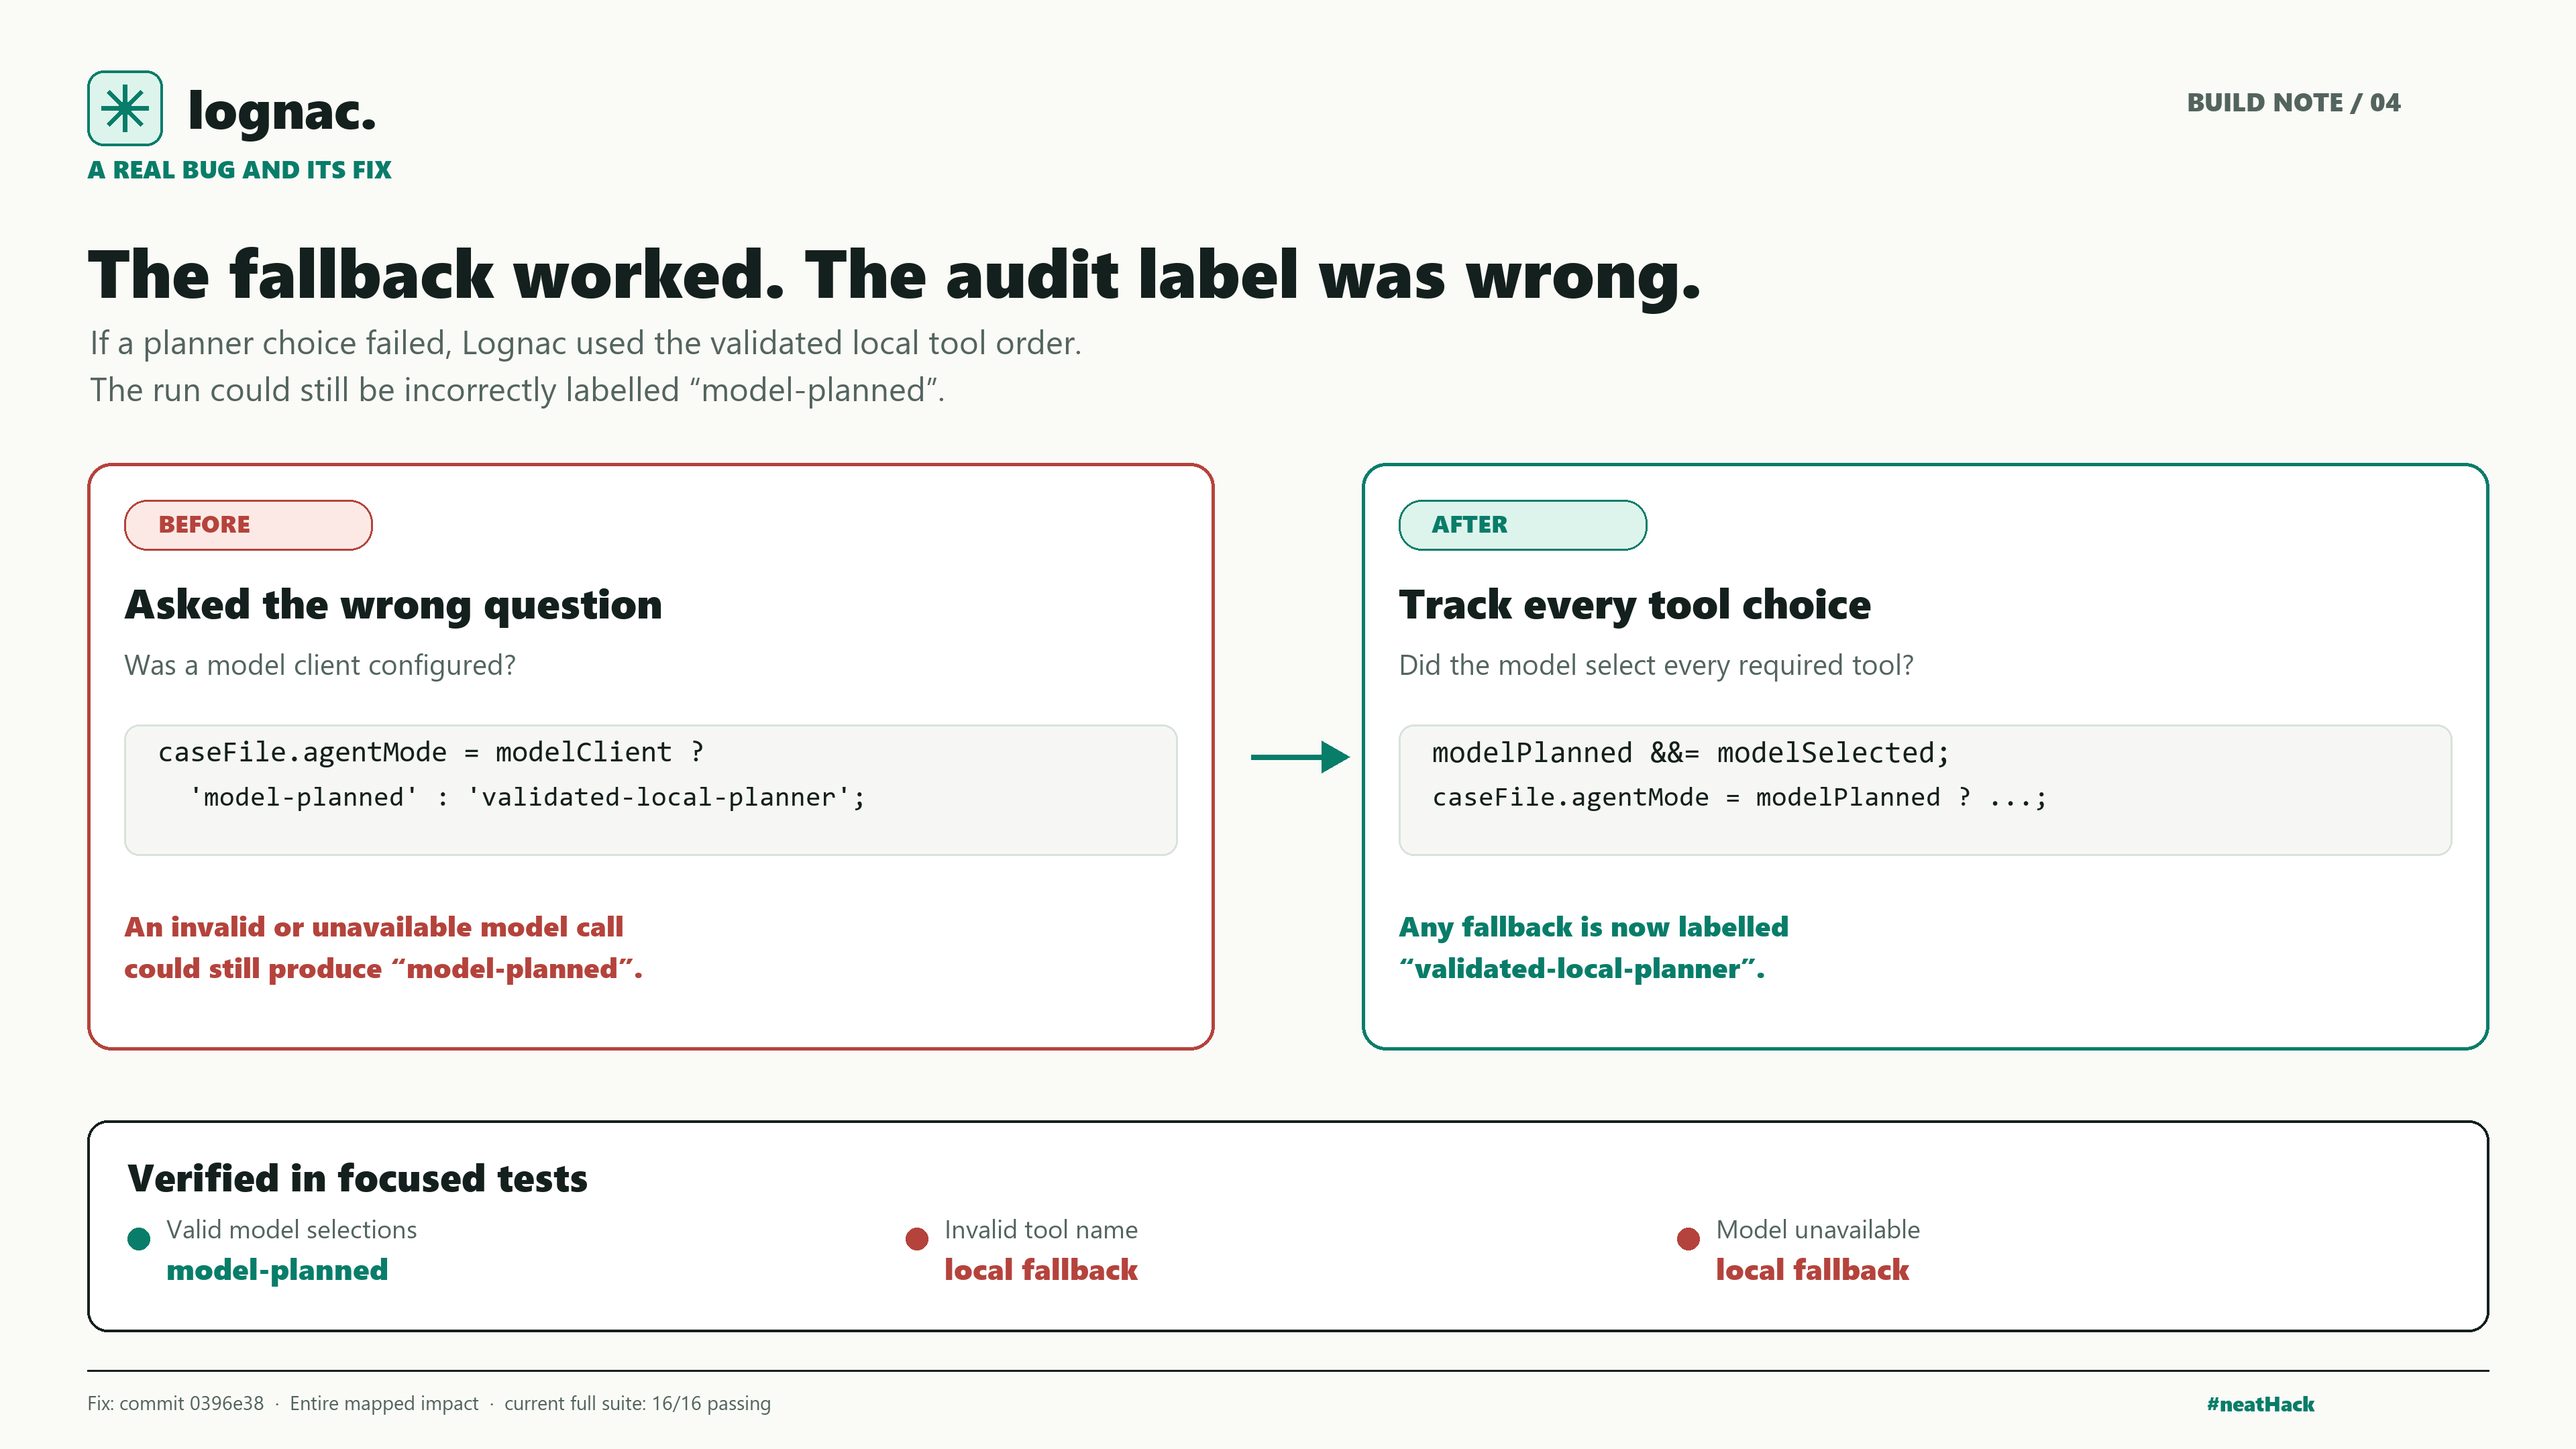
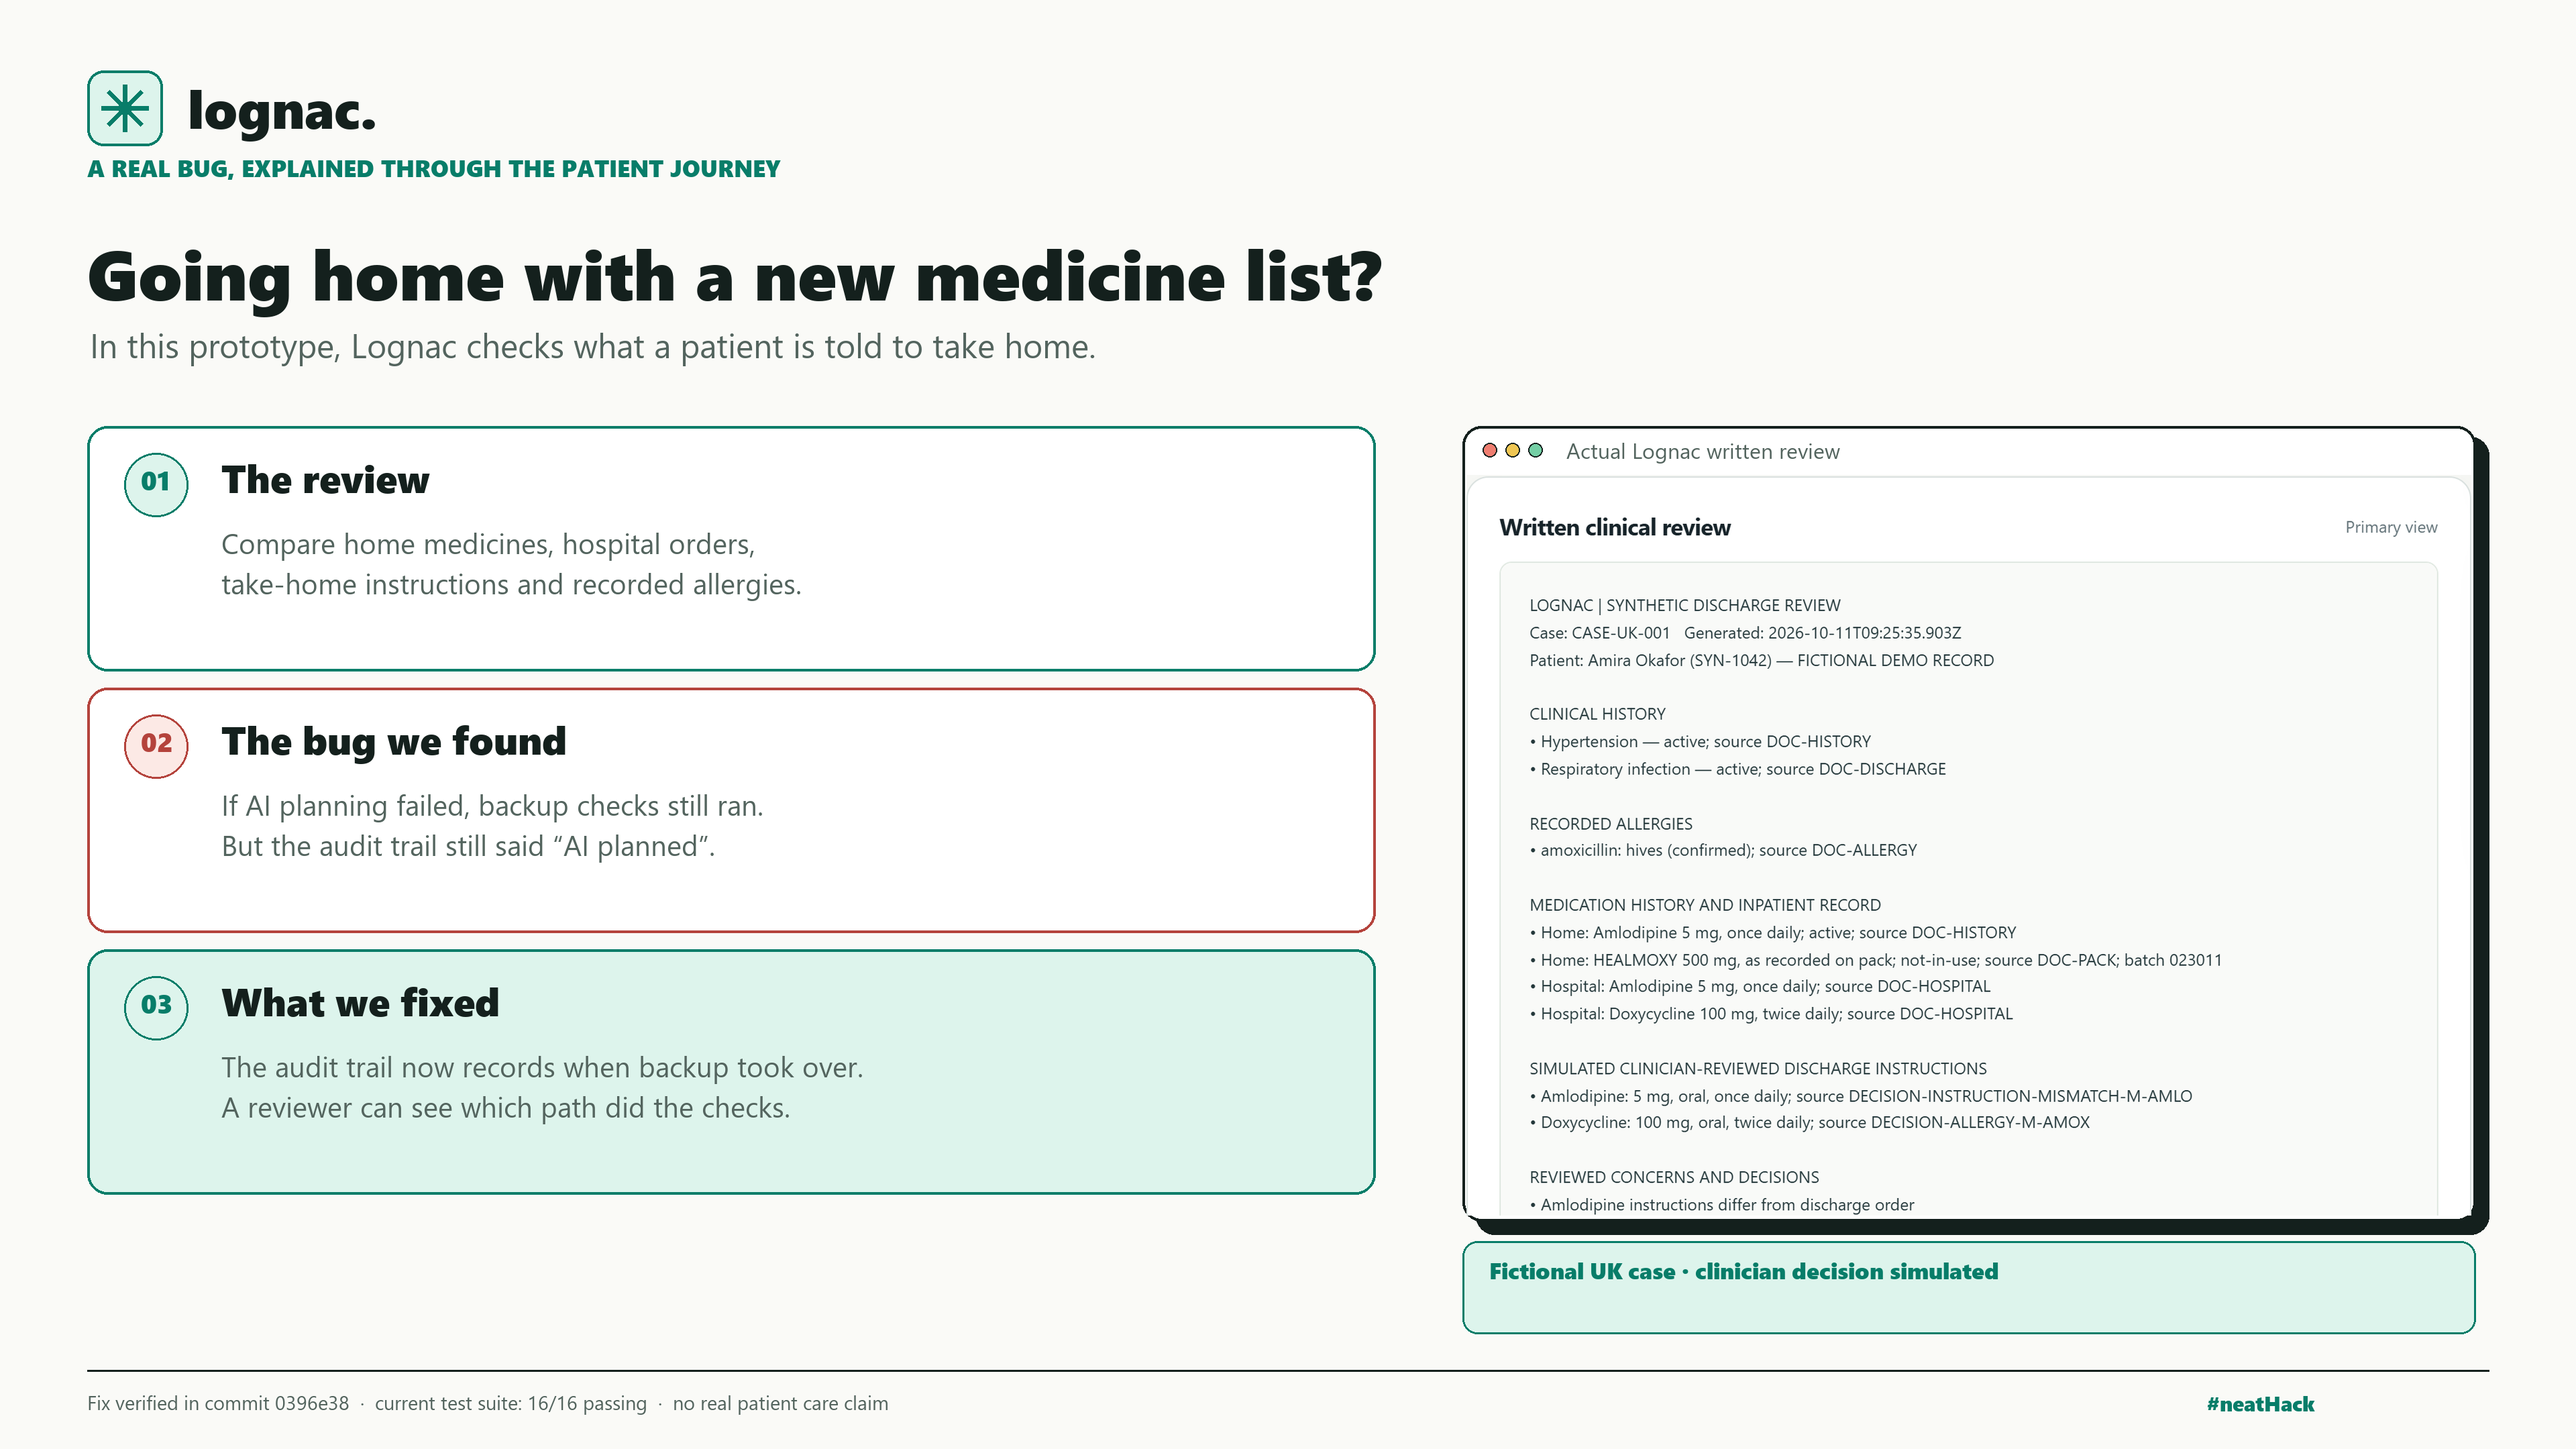
Explain planner fallback bug in patient terms

diff --git a/scripts/generate_bugfix_card.py b/scripts/generate_bugfix_card.py
@@ -1,6 +1,6 @@
-"""Render a 4K evidence card for the verified planner-mode reporting fix."""
+"""Render a plain-language 4K card for Lognac's verified audit-label fix."""
 from pathlib import Path
-from PIL import Image, ImageDraw, ImageFont
+from PIL import Image, ImageDraw, ImageFont, ImageOps
 
 ROOT = Path(__file__).resolve().parents[1]
 OUT = ROOT / 'docs' / 'social' / '04-planner-mode-bugfix.png'
@@ -10,70 +10,64 @@ GREEN, PALE, GREY, RULE = '#087D69', '#DDF4EC', '#53645E', '#D8E2DB'
 RED, ROSE = '#B4433C', '#FCE9E5'
 FONTS = Path('C:/Windows/Fonts')
 
-def font(size, bold=False, mono=False):
-    name = 'consolab.ttf' if mono and bold else 'consola.ttf' if mono else 'seguibl.ttf' if bold else 'segoeui.ttf'
-    return ImageFont.truetype(str(FONTS / name), size)
+def font(size, bold=False):
+    return ImageFont.truetype(str(FONTS / ('seguibl.ttf' if bold else 'segoeui.ttf')), size)
 
-def text(d, x, y, value, size, color=INK, bold=False, mono=False):
-    d.text((x, y), value, font=font(size, bold, mono), fill=color)
+def text(d, x, y, value, size, color=INK, bold=False):
+    d.text((x, y), value, font=font(size, bold), fill=color)
 
 def box(d, bounds, fill=WHITE, outline=INK, radius=30, width=4):
     d.rounded_rectangle(bounds, fill=fill, outline=outline, radius=radius, width=width)
 
+def block(d, y, number, heading, lines, color=GREEN, fill=WHITE):
+    box(d,(130,y,2050,y+365),fill,color,30,4)
+    box(d,(185,y+40,280,y+135),PALE if color==GREEN else ROSE,color,47,3)
+    text(d,210,y+52,number,40,color,True)
+    text(d,330,y+37,heading,58,INK,True)
+    for i,line in enumerate(lines):
+        text(d,330,y+145+i*60,line,42,GREY)
+
 im = Image.new('RGB', (W, H), BG)
 d = ImageDraw.Draw(im)
 
-# Header uses the same quiet editorial system as the three submission cards.
-box(d, (130, 105, 242, 217), PALE, GREEN, 24)
-d.ellipse((176, 151, 196, 171), fill=GREEN)
+box(d,(130,105,242,217),PALE,GREEN,24)
+d.ellipse((176,151,196,171),fill=GREEN)
 for dx,dy in ((0,-35),(25,-25),(35,0),(25,25),(0,35),(-25,25),(-35,0),(-25,-25)):
     d.line((186,161,186+dx,161+dy),fill=GREEN,width=7)
-text(d, 280, 106, 'lognac.', 79, INK, True)
-text(d, 3260, 125, 'BUILD NOTE / 04', 38, GREY, True)
-text(d, 130, 226, 'A REAL BUG AND ITS FIX', 37, GREEN, True)
+text(d,280,106,'lognac.',79,INK,True)
+text(d,130,226,'A REAL BUG, EXPLAINED THROUGH THE PATIENT JOURNEY',35,GREEN,True)
 
-text(d, 130, 335, 'The fallback worked. The audit label was wrong.', 101, INK, True)
-text(d, 134, 475, 'If a planner choice failed, Lognac used the validated local tool order.', 49, GREY)
-text(d, 134, 545, 'The run could still be incorrectly labelled “model-planned”.', 49, GREY)
+text(d,130,335,'Going home with a new medicine list?',104,INK,True)
+text(d,134,480,'In this prototype, Lognac checks what a patient is told to take home.',50,GREY)
 
-box(d, (130, 690, 1810, 1565), WHITE, RED, 36, 5)
-box(d, (185, 745, 555, 820), ROSE, RED, 34, 3)
-text(d, 236, 755, 'BEFORE', 36, RED, True)
-text(d, 185, 855, 'Asked the wrong question', 62, INK, True)
-text(d, 185, 960, 'Was a model client configured?', 42, GREY)
-box(d, (185, 1080, 1755, 1275), '#F6F7F4', RULE, 22, 3)
-text(d, 235, 1102, 'caseFile.agentMode = modelClient ?', 44, INK, mono=True)
-text(d, 235, 1170, "  'model-planned' : 'validated-local-planner';", 41, INK, mono=True)
-text(d, 185, 1350, 'An invalid or unavailable model call', 42, RED, True)
-text(d, 185, 1412, 'could still produce “model-planned”.', 42, RED, True)
+block(d,635,'01','The review',[
+    'Compare home medicines, hospital orders,',
+    'take-home instructions and recorded allergies.'
+])
+block(d,1025,'02','The bug we found',[
+    'If AI planning failed, backup checks still ran.',
+    'But the audit trail still said “AI planned”.'
+],RED)
+block(d,1415,'03','What we fixed',[
+    'The audit trail now records when backup took over.',
+    'A reviewer can see which path did the checks.'
+],GREEN,PALE)
 
-d.line((1865,1128,1990,1128), fill=GREEN, width=8)
-d.polygon([(1970,1104),(2012,1128),(1970,1152)], fill=GREEN)
+# The actual product screenshot grounds the explanation. The planner-mode audit
+# field is separate from the written report; its caption makes this clear.
+box(d,(2200,651,3710,1840),INK,INK,28)
+box(d,(2180,635,3690,1820),WHITE,INK,28)
+for i,c in enumerate(('#EF7D70','#EFC653','#74CFA5')):
+    d.ellipse((2210+i*34,660,2231+i*34,681),fill=c,outline=INK,width=2)
+text(d,2335,649,'Actual Lognac written review',32,GREY)
+src=Image.open(ROOT/'docs'/'social'/'ui-written-report.png').convert('RGB')
+shot=ImageOps.fit(src,(1498,1104),method=Image.Resampling.LANCZOS,centering=(0.5,0))
+im.paste(shot,(2186,708))
+box(d,(2180,1850,3690,1988),PALE,GREEN,22,3)
+text(d,2220,1870,'Fictional UK case · clinician decision simulated',34,GREEN,True)
 
-box(d, (2030, 690, 3710, 1565), WHITE, GREEN, 36, 5)
-box(d, (2085, 745, 2455, 820), PALE, GREEN, 34, 3)
-text(d, 2134, 755, 'AFTER', 36, GREEN, True)
-text(d, 2085, 855, 'Track every tool choice', 62, INK, True)
-text(d, 2085, 960, 'Did the model select every required tool?', 42, GREY)
-box(d, (2085, 1080, 3655, 1275), '#F6F7F4', RULE, 22, 3)
-text(d, 2135, 1102, 'modelPlanned &&= modelSelected;', 45, INK, mono=True)
-text(d, 2135, 1170, 'caseFile.agentMode = modelPlanned ? ...;', 41, INK, mono=True)
-text(d, 2085, 1350, 'Any fallback is now labelled', 42, GREEN, True)
-text(d, 2085, 1412, '“validated-local-planner”.', 42, GREEN, True)
-
-box(d, (130, 1670, 3710, 1985), WHITE, INK, 30, 4)
-text(d, 190, 1714, 'Verified in focused tests', 57, INK, True)
-for x,label,result,color in (
-    (190,'Valid model selections','model-planned',GREEN),
-    (1350,'Invalid tool name','local fallback',RED),
-    (2500,'Model unavailable','local fallback',RED),
-):
-    d.ellipse((x,1830,x+33,1863),fill=color)
-    text(d,x+58,1805,label,38,GREY)
-    text(d,x+58,1860,result,44,color,True)
-
-d.line((130,2043,3710,2043), fill=INK, width=3)
-text(d,130,2070,'Fix: commit 0396e38  ·  Entire mapped impact  ·  current full suite: 16/16 passing',29,GREY)
+d.line((130,2043,3710,2043),fill=INK,width=3)
+text(d,130,2070,'Fix verified in commit 0396e38  ·  current test suite: 16/16 passing  ·  no real patient care claim',29,GREY)
 text(d,3290,2070,'#neatHack',31,GREEN,True)
 OUT.parent.mkdir(parents=True,exist_ok=True)
 im.save(OUT,optimize=True)

diff --git a/docs/social/BUGFIX_POST.md b/docs/social/BUGFIX_POST.md
@@ -2,6 +2,6 @@
 
 ![Planner-mode reporting bug and fix](04-planner-mode-bugfix.png)
 
-> Found and fixed a Lognac audit bug: if the model planner failed or chose an invalid tool, the agent used its local fallback but still reported “model-planned.” It now labels the path actually taken. Regression tests cover both failures; all 16 tests pass. #neatHack
+> Imagine going home with a new medicine list. I'm building Lognac to check it against your records and allergies. I found a bug: if AI planning failed, backup checks still ran, but the audit trail said “AI planned.” Fixed—reviewers now see which path actually ran. #neatHack
 
-Evidence: commit `0396e38` changed `src/agent.js` and added `test/agent.test.js`. The before/after code and all three outcomes in the image reflect that commit and the current test suite. Entire mapped the impacted callers in `docs/ENTIRE_GRAPH_EVIDENCE.md`. This is distinct from the separately simulated `checkAlerts` timeout shown in Neatlogs.
+Evidence: commit `0396e38` changed `src/agent.js` and added `test/agent.test.js`. The written-review screenshot is from a fictional UK case. The bug affected the run's audit-mode label; it did not change the medication findings or imply that a real patient received incorrect instructions. The validated local checks still ran. Entire mapped the impacted callers in `docs/ENTIRE_GRAPH_EVIDENCE.md`. This is distinct from the separately simulated `checkAlerts` timeout shown in Neatlogs.
